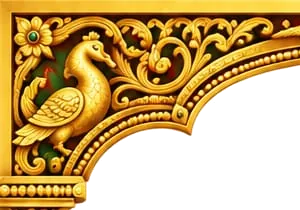
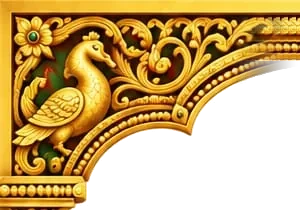
Split About into Our Vision + About Us; blend temple-frame top corners
- /about is now "Our Vision" (nav, footer, More sheet relabelled)
- New /about-us page with the team (added to nav, footer, sitemap)
- top-left/top-right frame pieces feathered over their last 70px into
  the top band pattern, so the corner no longer ends in a hard seam

Changed region(s): [[0.78, 0.0286, 1.0, 0.3714]]

diff --git a/app/about/page.tsx b/app/about/page.tsx
@@ -2,45 +2,15 @@ import Image from "next/image";
 
 import Footer from "../components/layout/Footer";
 import { getT } from "@/app/lib/i18n/server";
-import type { I18nKey } from "@/app/lib/i18n/dictionary";
 import { pageMetadata } from "@/app/lib/seo/pageMetadata";
 
 export const metadata = pageMetadata(
-  "About Us",
+  "Our Vision",
   "Bhakthi Bookshelf is a home for devotional reading — sacred scriptures and spiritual literature in English and Kannada, made easy to read anywhere.",
   "/about"
 );
 
-// The people behind Bhakthi Bookshelf (client-supplied, 2026-09-27).
-// Names stay in English script in both languages; roles are translated.
-const TEAM: { role: I18nKey; people: string[] }[] = [
-  {
-    role: "about.role.partner",
-    people: ["Siddhartha S.S", "Vishwa Bandu Priyadarshi H.M"],
-  },
-  { role: "about.role.tech", people: ["Lakshmikanth"] },
-  { role: "about.role.digital", people: ["Manjesh"] },
-  {
-    role: "about.role.content",
-    people: [
-      "Bharathi Priyadarshini H.M",
-      "Nandini Priyadarshini H.M",
-      "Indira Priyadarshini H.M",
-      "Vinutha P",
-    ],
-  },
-];
-
-function initials(name: string) {
-  return name
-    .split(/[\s.]+/)
-    .filter(Boolean)
-    .slice(0, 2)
-    .map((w) => w[0].toUpperCase())
-    .join("");
-}
-
-export default async function AboutPage() {
+export default async function OurVisionPage() {
   const t = await getT();
 
   return (
@@ -111,7 +81,7 @@ export default async function AboutPage() {
               position: "relative",
             }}
           >
-            {t("about.title")}
+            {t("about.vision")}
           </h1>
 
           <p
@@ -138,12 +108,7 @@ export default async function AboutPage() {
             borderRadius: 16,
           }}
         >
-          <div style={{ padding: "40px 30px 0" }}>
-            <p className="about-eyebrow">{t("about.visionEyebrow")}</p>
-            <h2 className="about-section-title">{t("about.vision")}</h2>
-          </div>
-
-          <div style={{ padding: "10px 30px 10px" }}>
+          <div style={{ padding: "40px 30px 10px" }}>
             <Image
               src="/images/about-banner-kannada-v3.svg"
               alt=""
@@ -266,34 +231,6 @@ export default async function AboutPage() {
             Thank you
           </p>
           </div>
-        </section>
-
-        {/* ===== About Us — the team ===== */}
-        <section
-          className="content-section about-sacred about-team"
-          aria-labelledby="about-team-title"
-        >
-          <p className="about-eyebrow">{t("about.teamEyebrow")}</p>
-          <h2 id="about-team-title" className="about-section-title">
-            {t("about.us")}
-          </h2>
-          <p className="about-team__intro">{t("about.teamIntro")}</p>
-
-          {TEAM.map((group) => (
-            <div key={group.role} className="about-team__group">
-              <h3>{t(group.role)}</h3>
-              <ul className="about-team__grid">
-                {group.people.map((name) => (
-                  <li key={name} className="about-team__card">
-                    <span className="about-team__avatar" aria-hidden="true">
-                      {initials(name)}
-                    </span>
-                    <strong>{name}</strong>
-                  </li>
-                ))}
-              </ul>
-            </div>
-          ))}
         </section>
       </main>
 

diff --git a/app/about-us/page.tsx b/app/about-us/page.tsx
@@ -1,0 +1,80 @@
+import Footer from "../components/layout/Footer";
+import { getT } from "@/app/lib/i18n/server";
+import type { I18nKey } from "@/app/lib/i18n/dictionary";
+import { pageMetadata } from "@/app/lib/seo/pageMetadata";
+
+export const metadata = pageMetadata(
+  "About Us",
+  "Meet the team behind Bhakthi Bookshelf — managing partners, technology, digital and the content creators who prepare every book.",
+  "/about-us"
+);
+
+// The people behind Bhakthi Bookshelf (client-supplied, 2026-09-27).
+// Names stay in English script in both languages; roles are translated.
+const TEAM: { role: I18nKey; people: string[] }[] = [
+  {
+    role: "about.role.partner",
+    people: ["Siddhartha S.S", "Vishwa Bandu Priyadarshi H.M"],
+  },
+  { role: "about.role.tech", people: ["Lakshmikanth"] },
+  { role: "about.role.digital", people: ["Manjesh"] },
+  {
+    role: "about.role.content",
+    people: [
+      "Bharathi Priyadarshini H.M",
+      "Nandini Priyadarshini H.M",
+      "Indira Priyadarshini H.M",
+      "Vinutha P",
+    ],
+  },
+];
+
+function initials(name: string) {
+  return name
+    .split(/[\s.]+/)
+    .filter(Boolean)
+    .slice(0, 2)
+    .map((w) => w[0].toUpperCase())
+    .join("");
+}
+
+export default async function AboutUsPage() {
+  const t = await getT();
+
+  return (
+    <>
+      <main>
+        {/* ===== Hero — same navy band as Our Vision / Contact ===== */}
+        <section className="about-us-hero">
+          <p className="about-us-hero__eyebrow">{t("about.teamEyebrow")}</p>
+          <h1 style={{ color: "var(--color-white)" }}>{t("about.us")}</h1>
+          <p>{t("about.teamIntro")}</p>
+        </section>
+
+        {/* ===== The team — card pulled up over the hero ===== */}
+        <section
+          className="content-section about-sacred about-team"
+          aria-label={t("about.us")}
+        >
+          {TEAM.map((group) => (
+            <div key={group.role} className="about-team__group">
+              <h2>{t(group.role)}</h2>
+              <ul className="about-team__grid">
+                {group.people.map((name) => (
+                  <li key={name} className="about-team__card">
+                    <span className="about-team__avatar" aria-hidden="true">
+                      {initials(name)}
+                    </span>
+                    <strong>{name}</strong>
+                  </li>
+                ))}
+              </ul>
+            </div>
+          ))}
+        </section>
+      </main>
+
+      <Footer />
+    </>
+  );
+}

diff --git a/app/lib/i18n/dictionary.ts b/app/lib/i18n/dictionary.ts
@@ -14,7 +14,8 @@ const en = {
   // navigation
   "nav.home": "Home",
   "nav.library": "Library",
-  "nav.about": "About",
+  "nav.about": "Our Vision",
+  "nav.aboutUs": "About Us",
   "nav.contact": "Contact",
   "nav.subscribe": "Subscribe",
   "nav.downloads": "Downloads",
@@ -24,9 +25,7 @@ const en = {
   "nav.more": "More",
   "brand.name": "Bhakthi Bookshelf",
   "brand.tagline": "A Home for Devotional Reading",
-  "about.title": "About Us",
   "about.vision": "Our Vision",
-  "about.visionEyebrow": "Why we began",
   "about.us": "About Us",
   "about.teamEyebrow": "The people behind Bhakthi Bookshelf",
   "about.teamIntro": "A small team devoted to bringing our sacred heritage to every reader.",
@@ -410,7 +409,8 @@ export type I18nKey = keyof typeof en;
 const kn: Record<I18nKey, string> = {
   "nav.home": "ಮುಖಪುಟ",
   "nav.library": "ಗ್ರಂಥಾಲಯ",
-  "nav.about": "ನಮ್ಮ ಬಗ್ಗೆ",
+  "nav.about": "ನಮ್ಮ ದೃಷ್ಟಿಕೋನ",
+  "nav.aboutUs": "ನಮ್ಮ ಬಗ್ಗೆ",
   "nav.contact": "ಸಂಪರ್ಕಿಸಿ",
   "nav.subscribe": "ಚಂದಾದಾರರಾಗಿ",
   "nav.downloads": "ಡೌನ್ಲೋಡ್ಗಳು",
@@ -420,9 +420,7 @@ const kn: Record<I18nKey, string> = {
   "nav.more": "ಇನ್ನಷ್ಟು",
   "brand.name": "ಭಕ್ತಿ ಬುಕ್ಶೆಲ್ಫ್",
   "brand.tagline": "ಭಕ್ತಿ ಸಾಹಿತ್ಯದ ಮನೆ",
-  "about.title": "ನಮ್ಮ ಬಗ್ಗೆ",
   "about.vision": "ನಮ್ಮ ದೃಷ್ಟಿಕೋನ",
-  "about.visionEyebrow": "ನಾವು ಆರಂಭಿಸಿದ ಕಾರಣ",
   "about.us": "ನಮ್ಮ ಬಗ್ಗೆ",
   "about.teamEyebrow": "ಭಕ್ತಿ ಬುಕ್ಶೆಲ್ಫ್ ಹಿಂದಿನ ತಂಡ",
   "about.teamIntro": "ನಮ್ಮ ಪವಿತ್ರ ಪರಂಪರೆಯನ್ನು ಪ್ರತಿಯೊಬ್ಬ ಓದುಗರಿಗೂ ತಲುಪಿಸಲು ಸಮರ್ಪಿತವಾದ ಪುಟ್ಟ ತಂಡ.",

diff --git a/app/styles/home.css b/app/styles/home.css
@@ -460,41 +460,49 @@
   border-top-color: rgba(217, 119, 6, 0.35) !important;
 }
 
-.about-eyebrow {
-  margin: 0 0 4px;
+/* About Us page (/about-us) */
+.about-us-hero {
+  background: linear-gradient(135deg, var(--color-navy) 0%, #142a5c 100%);
+  padding: 64px 20px 100px;
+  text-align: center;
+}
+
+.about-us-hero h1 {
+  margin: 0 0 10px;
+  color: var(--color-white);
+}
+
+.about-us-hero p {
+  max-width: 520px;
+  margin: 0 auto;
+  color: rgba(255, 255, 255, 0.78);
+}
+
+.about-us-hero .about-us-hero__eyebrow {
+  margin-bottom: 8px;
   font-size: 13px;
   font-weight: 700;
   letter-spacing: 0.12em;
   text-transform: uppercase;
-  color: #b45309 !important;
+  color: var(--color-accent-gold);
 }
 
-.about-sacred h2.about-section-title {
-  margin: 0 0 6px;
-  font-size: 30px;
-}
-
-/* About Us — team cards */
 .about-team {
+  position: relative;
   max-width: 780px;
-  margin: 0 auto 60px;
+  margin: -60px auto 60px;
   padding: 40px 30px 34px;
   border-radius: 16px;
   line-height: 1.6;
-}
-
-.about-team__intro {
-  margin: 10px 0 26px;
 }
 
 .about-team__group + .about-team__group {
   margin-top: 26px;
 }
 
-.about-team__group h3 {
-  margin: 0 0 12px;
-  font-size: 18px;
-  color: #7c2d12;
+.about-sacred .about-team__group h2 {
+  margin: 0 0 14px;
+  font-size: 20px;
 }
 
 .about-team__grid {
@@ -537,7 +545,7 @@
 
 @media (max-width: 600px) {
   .about-team {
-    margin: 0 16px 40px;
+    margin: -60px 16px 40px;
     padding: 30px 18px 26px;
   }
 

diff --git a/app/sitemap.ts b/app/sitemap.ts
@@ -19,6 +19,7 @@ export default async function sitemap(): Promise<MetadataRoute.Sitemap> {
     { url: absoluteUrl("/festivals"), changeFrequency: "weekly", priority: 0.7 },
     { url: absoluteUrl("/subscribe"), changeFrequency: "monthly", priority: 0.6 },
     { url: absoluteUrl("/about"), changeFrequency: "yearly", priority: 0.5 },
+    { url: absoluteUrl("/about-us"), changeFrequency: "yearly", priority: 0.5 },
     { url: absoluteUrl("/contact"), changeFrequency: "yearly", priority: 0.4 },
     { url: absoluteUrl("/privacy-policy"), changeFrequency: "yearly", priority: 0.2 },
     { url: absoluteUrl("/terms-conditions"), changeFrequency: "yearly", priority: 0.2 },

diff --git a/app/components/layout/BottomNav.tsx b/app/components/layout/BottomNav.tsx
@@ -71,6 +71,7 @@ const MORE_LINKS: { href: string; label: I18nKey; webOnly?: boolean }[] = [
   { href: "/wishlist", label: "wishlist.title", webOnly: true },
   { href: "/subscribe", label: "nav.subscribe", webOnly: true },
   { href: "/about", label: "nav.about" },
+  { href: "/about-us", label: "nav.aboutUs" },
   { href: "/contact", label: "nav.contact" },
 ];
 

diff --git a/app/components/layout/Navbar.tsx b/app/components/layout/Navbar.tsx
@@ -111,6 +111,13 @@ export default function Navbar() {
           </Link>
 
           <Link
+            href="/about-us"
+            onClick={() => setMenuOpen(false)}
+          >
+            {t("nav.aboutUs")}
+          </Link>
+
+          <Link
             href="/contact"
             onClick={() => setMenuOpen(false)}
           >

diff --git a/app/components/layout/Footer.tsx b/app/components/layout/Footer.tsx
@@ -111,6 +111,8 @@ export default async function Footer() {
 
             <Link href="/about">{t("nav.about")}</Link>
 
+            <Link href="/about-us">{t("nav.aboutUs")}</Link>
+
             <Link href="/contact">{t("nav.contact")}</Link>
           </div>
 
